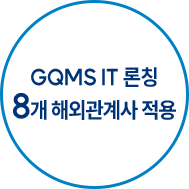
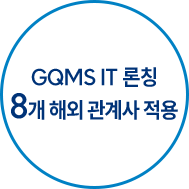
루프에서 the_date함수가 정상작동하지 않음. get_the_date로 변경

diff --git a/wp-content/themes/LSNewsroom/assets/sass/page-company.scss b/wp-content/themes/LSNewsroom/assets/sass/page-company.scss
@@ -10,7 +10,7 @@
 			font-size: 36px;
 			font-weight: 700;
 			padding: 20px 0;
-			text-align: center;
+			// text-align: center;
 			margin: 0 auto;
 		}
 		p {

diff --git a/wp-content/themes/LSNewsroom/assets/sass/page-sustainability.scss b/wp-content/themes/LSNewsroom/assets/sass/page-sustainability.scss
@@ -5,7 +5,7 @@
 			font-size: 36px;
 			font-weight: 700;
 			padding: 20px 0;
-			text-align: center;
+			// text-align: center;
 			margin: 0 auto;
 		}
 		p {

diff --git a/wp-content/themes/LSNewsroom/page-templates/page-company.php b/wp-content/themes/LSNewsroom/page-templates/page-company.php
@@ -10,7 +10,7 @@ get_header();
 	<div class="page-container">
 		<div id="page-<?php the_ID(); ?>" <?php post_class('page-company'); ?>>
 			<div class="header">
-				<h1>LS전선 회사 소개</h1>
+				<h1>회사 소개</h1>
 			</div>
 			<div class="section-intro">
 				<div class="company-intro-item">
@@ -25,7 +25,7 @@ get_header();
 				</div>
 				<div class="company-intro-item">
 					<h2>글로벌 네트워크</h2>
-					<p>LS전선은 설립 이후, 글로벌 기업으로 성장하기 위해 쉼 없이 달려왔습니다. 각 지역 특성을 고려한 현지화 전략을 기반으로 선진 시장과 신흥 시장에서 균형 잡힌 성장을 이뤄가기 위하여 권역별 지역본부체제를 운영하고 있으며, 전 세계 20여개국에 60여 거점을 보유하고 있습니다.</p>
+					<p>LS전선은 설립 이후, 글로벌 기업으로 성장하기 위해 쉼 없이 달려왔습니다. 각 지역 특성을 고려한 현지화 전략을 기반으로 선진 시장과 신흥 시장에서 균형 잡힌 성장을 이뤄가기 위하여 권역별 지역본부체제를 운영하고 있으며, 전 세계 20여 개국에 60여 거점을 보유하고 있습니다.</p>
 					<img src="<?php echo THEME_IMAGE_URI ?>/img-company-map.png" alt="글로벌 네트워크 현황">
 				</div>
 			</div>
@@ -36,7 +36,7 @@ get_header();
 					<div class="timeline-item">
 						<div class="year">2022</div>
 						<div class="content">
-							<p>국내 유일의 해저 전력 케이블<br class="hidden-mobile"> 포설선 ‘GL2030’의 취항</p>
+							<p>국내 유일의 해저 전력 케이블<br class="hidden-mobile"> 포설선 ‘GL2030’ 취항</p>
 						</div>
 					</div>
 					<div class="timeline-item">
@@ -166,12 +166,12 @@ get_header();
 						<p>통신 케이블<br>솔루션</p>
 					</div>
 					<div class="business-item">
-						<img src="<?php echo THEME_IMAGE_URI ?>/icon-company-business-3.png" alt="산업용 하네스&amp;케이블">
-						<p>산업용<br>하네스&amp;케이블</p>
+						<img src="<?php echo THEME_IMAGE_URI ?>/icon-company-business-3.png" alt="산업용 케이블&amp;하네스">
+						<p>산업용<br>케이블&amp;하네스</p>
 					</div>
 					<div class="business-item">
-						<img src="<?php echo THEME_IMAGE_URI ?>/icon-company-business-4.png" alt="소재">
-						<p>소재<br>&nbsp;</p>
+						<img src="<?php echo THEME_IMAGE_URI ?>/icon-company-business-4.png" alt="케이블 소재">
+						<p>케이블 소재<br>&nbsp;</p>
 					</div>
 				</div>
 			</div>
@@ -215,20 +215,6 @@ get_header();
 						<p>전기차 부품</p>
 					</div>
 					<div class="content">
-						<div class="content-item">
-							<h5>e-Flatek</h5>
-							<ul>
-								<li>공장자동화 장비에 전원 공급 및 신호 전송</li>
-								<li>정전기 방지 기술로 정밀기기 내 먼지 유입 최소화</li>
-							</ul>
-						</div>
-						<div class="content-item">
-							<h5>알루미늄 고전압 케이블</h5>
-							<ul>
-								<li>친환경차용 고전압 경량화 케이블</li>
-								<li>국내 유일 전용생산라인 보유, 양산</li>
-							</ul>
-						</div>
 						<div class="content-item">
 							<h5>전기차 모터용 케이블</h5>
 							<ul>
@@ -297,8 +283,8 @@ get_header();
 								<p>동해사업장<br>RE50 달성</p>
 							</div>
 							<div>
-								<img src="<?php echo THEME_IMAGE_URI ?>/icon-company-sustainability-1-2.png" alt="환경경영시스템(ISO 14001) 국내 시공현장 확대">
-								<p>환경경영시스템<br class="hidden-pc">(ISO 14001)<br>국내 시공현장 확대</p>
+								<img src="<?php echo THEME_IMAGE_URI ?>/icon-company-sustainability-1-2.png" alt="환경경영시스템(ISO 14001) 국내 시공 현장 확대">
+								<p>환경경영시스템<br class="hidden-pc">(ISO 14001)<br>국내 시공 현장 확대</p>
 							</div>
 							<div>
 								<img src="<?php echo THEME_IMAGE_URI ?>/icon-company-sustainability-1-3.png" alt="주요 제품 EPD 인증 확보">
@@ -322,8 +308,8 @@ get_header();
 								<p>Safety Moment<br>주요 전사회의체 시행</p>
 							</div>
 							<div>
-								<img src="<?php echo THEME_IMAGE_URI ?>/icon-company-sustainability-2-3.png" alt="고위험테마 개선 투자 66억 원(`22년) 149억 원(3개년 누적)">
-								<p>고위험테마 개선 투자<br>66억 원(`22년)<br>149억 원(3개년 누적)</p>
+								<img src="<?php echo THEME_IMAGE_URI ?>/icon-company-sustainability-2-3.png" alt="고위험 테마 개선 투자 66억 원(`22년) 149억 원(3개년 누적)">
+								<p>고위험 테마 개선 투자<br>66억 원(`22년)<br>149억 원(3개년 누적)</p>
 							</div>
 						</div>
 					</div>
@@ -347,8 +333,8 @@ get_header();
 							<h3>품질 &amp; 제품 책임</h3>
 							<div class="body-item-child">
 								<div>
-									<img src="<?php echo THEME_IMAGE_URI ?>/icon-company-sustainability-4-1.png" alt="품질관리 역량평가제 국내관계사 5개 사">
-									<p>품질관리 역량평가제<br>국내관계사 5개 사</p>
+									<img src="<?php echo THEME_IMAGE_URI ?>/icon-company-sustainability-4-1.png" alt="품질관리 역량평가제 국내 관계사 5개사 적용">
+									<p>품질관리 역량평가제<br>국내 관계사 5개사 적용</p>
 								</div>
 								<div>
 									<img src="<?php echo THEME_IMAGE_URI ?>/icon-company-sustainability-4-2.png" alt="현장혁신활동 68건 / 17건 (테마활동 / 아이디어 제안)">

diff --git a/wp-content/themes/LSNewsroom/index.php b/wp-content/themes/LSNewsroom/index.php
@@ -86,6 +86,7 @@ if (is_plugin_active("ls-main-slider/index.php")) {
 			<a href="<?php echo site_url("/tag/세대공감/") ?>">세대공감</a>
 			<a href="<?php echo site_url("/tag/보도자료/") ?>">보도자료</a>
 		</div>
+
 		<div class="latest-content">
 			<div id="latest-content-1">
 				<?php if ($latest_posts_1) : foreach ($latest_posts_1 as $post) : setup_postdata($post->ID);
@@ -100,7 +101,7 @@ if (is_plugin_active("ls-main-slider/index.php")) {
 									<a href="<?php echo get_the_permalink() ?>" class="title"><?php echo the_title(); ?></a>
 								</div>
 								<div class="post-date">
-									<?php the_date('Y. m. d') ?>
+									<?php echo get_the_date('Y. m. d') ?>
 								</div>
 							</div>
 						</div>

diff --git a/wp-content/themes/LSNewsroom/theme-parts/post-view.php b/wp-content/themes/LSNewsroom/theme-parts/post-view.php
@@ -22,7 +22,7 @@ if ($cats) {
 						<?php if (is_array($breadcrumbs)) { ?><?php echo join(', ', $breadcrumbs); ?><?php } ?>
 					</div>
 				<?php endif; ?>
-				<div class="entry-top-date"><?php the_date('Y.m.d'); ?></div>
+				<div class="entry-top-date"><?php echo get_the_date('Y.m.d'); ?></div>
 			</div>
 		</div>
 

diff --git a/wp-content/themes/LSNewsroom/category.php b/wp-content/themes/LSNewsroom/category.php
@@ -29,7 +29,7 @@ $total_posts = $wp_query->found_posts;
 								</a>
 
 								<div class="post-etc">
-									<span class="post-date"><?php the_date('Y.m.d'); ?></span>
+									<span class="post-date"><?php echo get_the_date('Y.m.d'); ?></span>
 								</div>
 
 								<div class="post-excerpt">

diff --git a/wp-content/themes/LSNewsroom/theme-parts/post-list.php b/wp-content/themes/LSNewsroom/theme-parts/post-list.php
@@ -14,7 +14,7 @@ $total_posts = $wp_query->found_posts;
 		</a>
 
 		<div class="post-etc">
-			<span class="post-date"><?php the_date('Y.m.d'); ?></span>
+			<span class="post-date"><?php echo get_the_date('Y.m.d'); ?></span>
 		</div>
 
 		<div class="post-excerpt">
